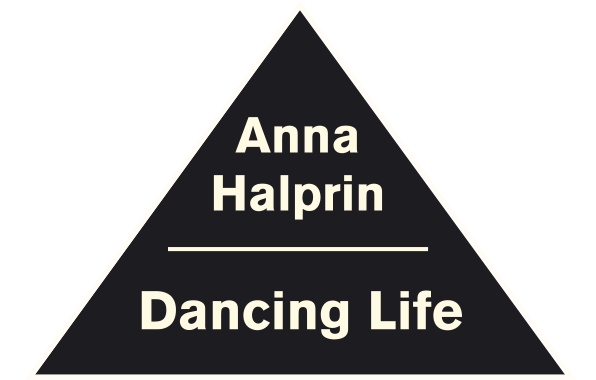
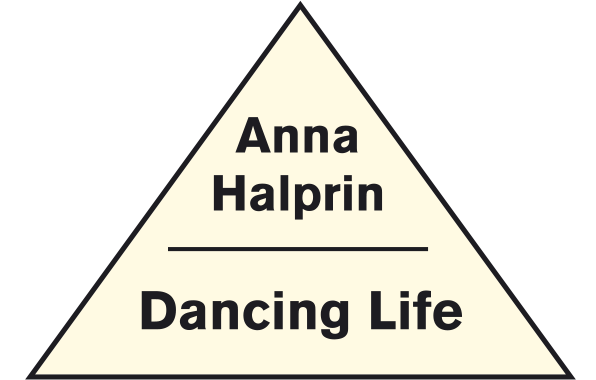
Adding homepage images and resolving display bugs

diff --git a/apps/halprin-web-app/src/features/menu/embed/embed-menu.tsx b/apps/halprin-web-app/src/features/menu/embed/embed-menu.tsx
@@ -39,7 +39,7 @@ export const EmbedMenu: React.FC<Props> = (props) => {
                 <div className="logo">
                   <img
                     src={
-                      '/images/ui/menu/triangle-halprin-white-' + 'en' + '.png'
+                      '/images/ui/elements/triangle-halprin-black-' + 'en' + '.png'
                     }
                     alt="Anna Halprin - Dancing Life"
                     className="triangle"
@@ -120,7 +120,7 @@ export const EmbedMenu: React.FC<Props> = (props) => {
                 <div className="logo">
                   <img
                     src={
-                      '/images/ui/menu/triangle-halprin-white-' + 'en' + '.png'
+                      '/images/ui/elements/triangle-halprin-black-' + 'en' + '.png'
                     }
                     alt="Anna Halprin - Dancing Life"
                     className="triangle"
@@ -174,7 +174,7 @@ export const EmbedMenu: React.FC<Props> = (props) => {
                 <div className="logo">
                   <img
                     src={
-                      '/images/ui/menu/triangle-halprin-white-' + 'en' + '.png'
+                      '/images/ui/elements/triangle-halprin-black-' + 'en' + '.png'
                     }
                     alt="Anna Halprin - Dancing Life"
                     className="triangle"
@@ -240,7 +240,7 @@ export const EmbedMenu: React.FC<Props> = (props) => {
                 <div className="logo">
                   <img
                     src={
-                      '/images/ui/menu/triangle-halprin-white-' + 'en' + '.png'
+                      '/images/ui/elements/triangle-halprin-black-' + 'en' + '.png'
                     }
                     alt="Anna Halprin - Dancing Life"
                     className="triangle"

diff --git a/apps/halprin-web-app/src/features/tag-index/components/footer-index.tsx b/apps/halprin-web-app/src/features/tag-index/components/footer-index.tsx
@@ -314,9 +314,13 @@ export const FooterIndex: FC<Props> = (props) => {
               <div className="head">
                 <div className="left">
                   {media[0] && media[0].category} -{' '}
-                  {selectedVideo && selectedVideo.title
-                    ? selectedVideo.title[lang]
-                    : null}{' '}
+                
+                  {selectedVideo && selectedVideo.title && selectedVideo.title[lang].length >= 19
+                            ? selectedVideo.title[lang].substring(0, 15) + '...'
+                            : selectedVideo && selectedVideo.title
+                            ? selectedVideo.title[lang]
+                            : null}
+                  {' '}
                   {userToken && userToken !== '0' ? (
                     <div>
                       <button className="favBtn" onClick={() => addToFav()}>

diff --git a/apps/halprin-web-app/src/features/menu/embed/embed-menu.style.ts b/apps/halprin-web-app/src/features/menu/embed/embed-menu.style.ts
@@ -149,7 +149,7 @@ export const Circle = styled.div`
   .centered {
     position: relative;
     margin-right: auto;
-    top: -50px;
+    top: -45px;
     left: 25px;
     .logo {
       position: fixed;
@@ -165,7 +165,7 @@ export const Circle = styled.div`
   .centered-road {
     position: relative;
     margin-right: auto;
-    top: -55px;
+    top: -50px;
     left: 23px;
     .logo {
       position: fixed;
@@ -181,7 +181,7 @@ export const Circle = styled.div`
   .centered-workshop {
     position: relative;
     margin-right: auto;
-    top: -55px;
+    top: -45px;
     left: 25px;
     .logo {
       position: fixed;
@@ -197,7 +197,7 @@ export const Circle = styled.div`
   .centered-lifeart {
     position: relative;
     margin-right: auto;
-    top: -40px;
+    top: -30px;
     left: 25px;
     .logo {
       position: fixed;

diff --git a/apps/halprin-web-app/src/features/video/components/video-footer.tsx b/apps/halprin-web-app/src/features/video/components/video-footer.tsx
@@ -137,9 +137,11 @@ export const VideoFooter: React.FC<Props> = (props) => {
         <div className="desktop">
           <div className="left">
             {media[0] && media[0].category} -{' '}
-            {selectedVideo && selectedVideo.title
-              ? selectedVideo.title[lang]
-              : null}{' '}
+            {selectedVideo && selectedVideo.title && selectedVideo.title[lang].length >= 19
+                            ? selectedVideo.title[lang].substring(0, 15) + '...'
+                            : selectedVideo && selectedVideo.title
+                            ? selectedVideo.title[lang]
+                            : null}{' '}
             {userToken && userToken !== '0' ? (
               <div>
                 <button className="favBtn" onClick={() => addToFav()}>

diff --git a/apps/halprin-web-app/src/features/menu/menu.page.tsx b/apps/halprin-web-app/src/features/menu/menu.page.tsx
@@ -92,7 +92,7 @@ export const MenuPage: React.FC<Props> = (props) => {
                   <div className="logo">
                     <img
                       src={
-                        '/images/ui/elements/triangle-halprin-' + lang + '.png'
+                        '/images/ui/elements/triangle-halprin-black-' + lang + '.png'
                       }
                       alt="Anna Halprin - Dancing Life"
                       className="triangle"

diff --git a/apps/halprin-web-app/src/features/home/home.page.tsx b/apps/halprin-web-app/src/features/home/home.page.tsx
@@ -42,7 +42,7 @@ export const HomePage: React.FC<Props> = ({ lang }) => {
                         <img
                           src={
                             '/images/ui/elements/triangle-halprin-' +
-                            'en' +
+                            lang +
                             '.png'
                           }
                           alt="Anna Halprin - Dancing Life"
